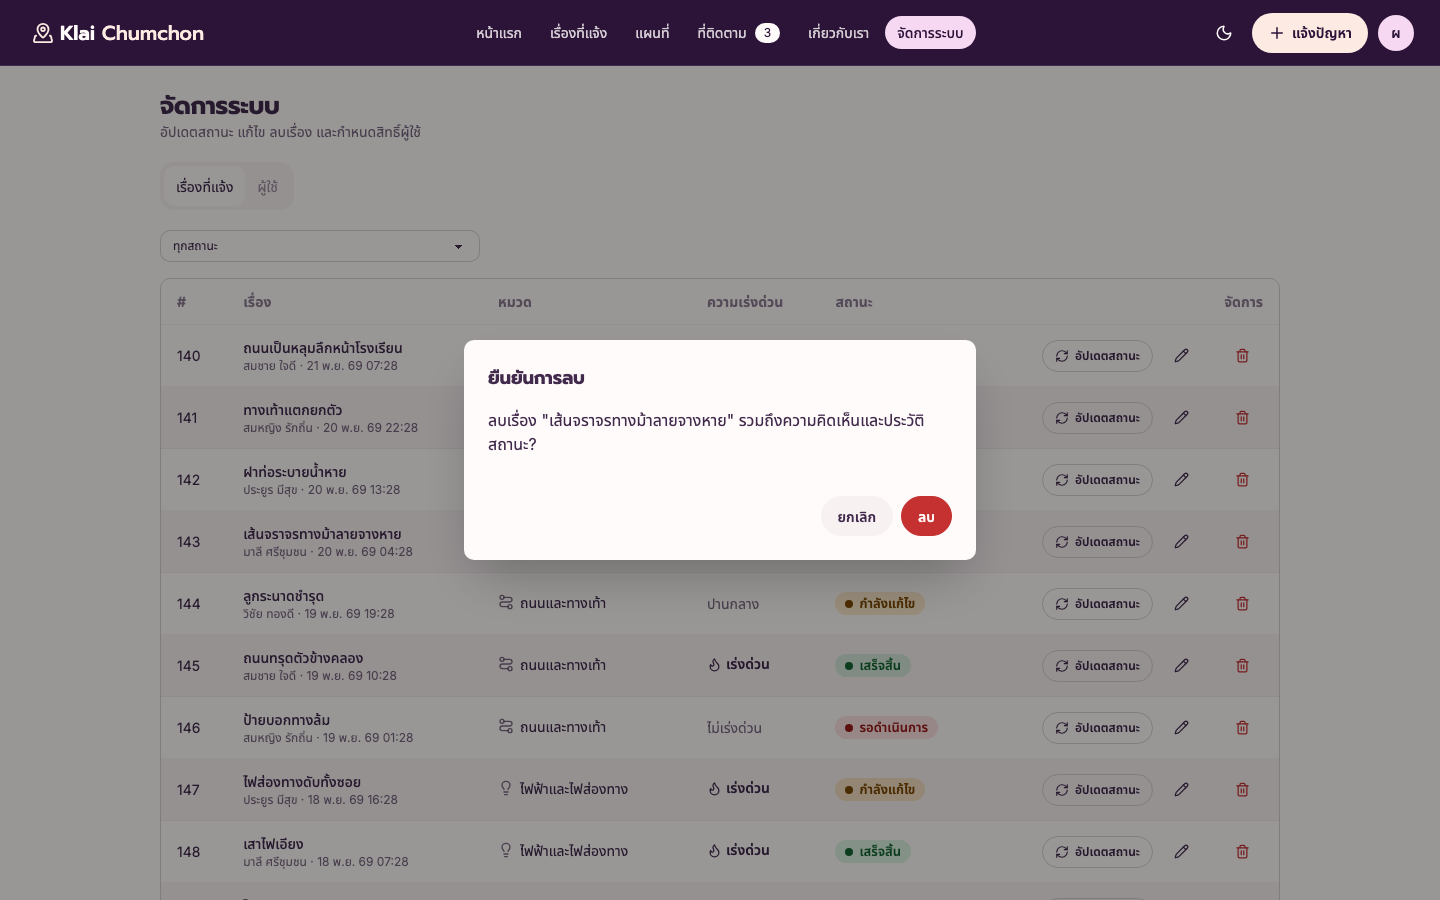
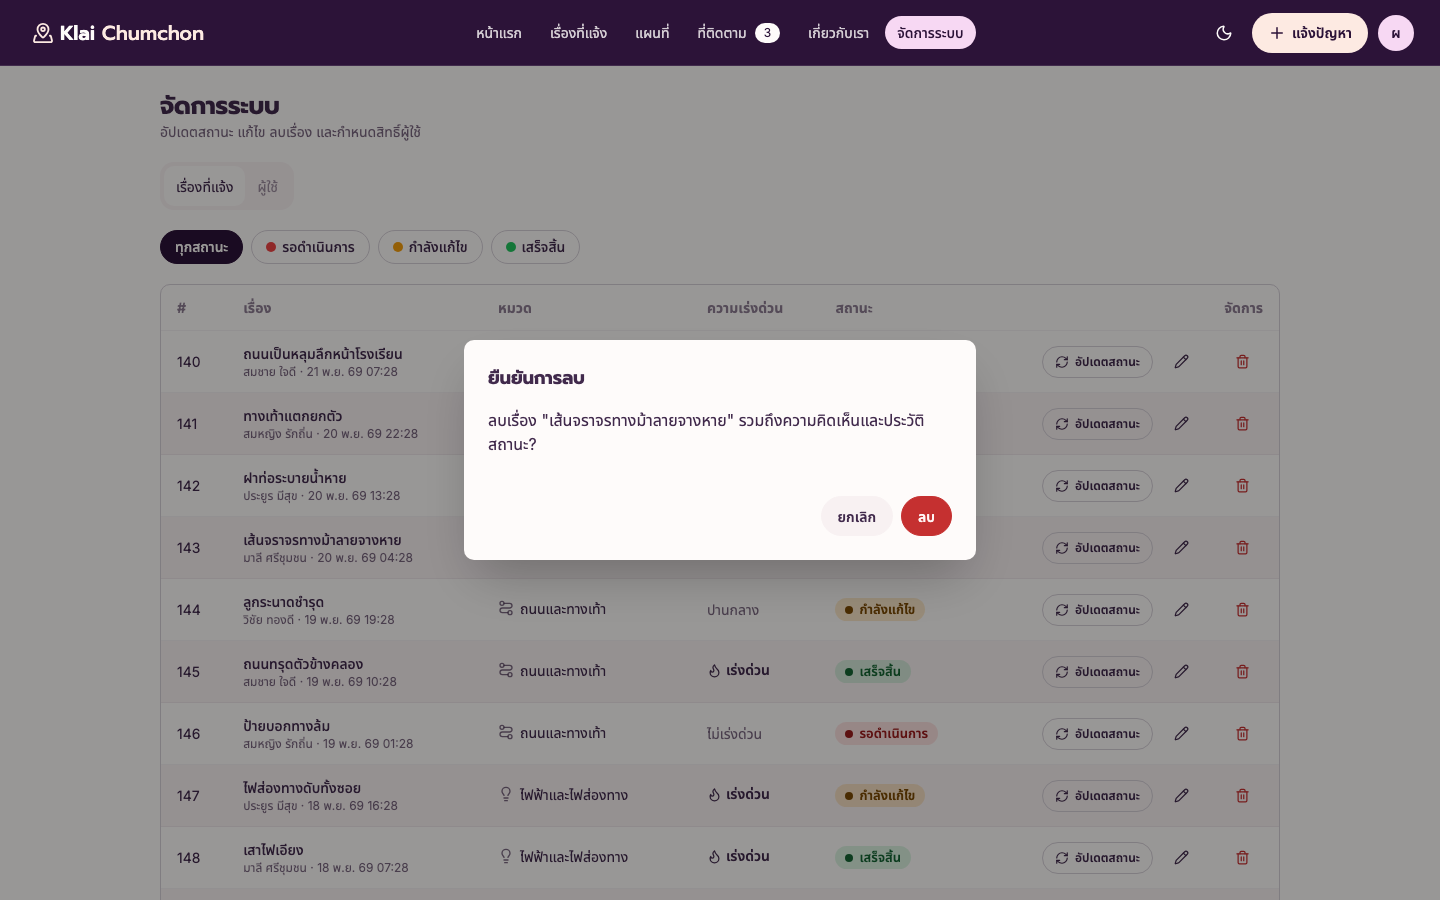
หน้าจัดการระบบ: การ์ดบนมือถือพร้อมปุ่ม 44px และตัวกรองสถานะแบบ pill

diff --git a/client/src/pages/AdminPage.tsx b/client/src/pages/AdminPage.tsx
@@ -9,7 +9,8 @@ import { CategoryLabel } from "../components/CategoryIcon";
 import StatusModal from "../components/StatusModal";
 import { EmptyState, ErrorAlert, TableSkeleton } from "../components/Feedback";
 import ConfirmModal from "../components/ConfirmModal";
-import { ROLE_LABEL, STATUS_LABEL } from "../types";
+import { StatusPills } from "../components/FilterPills";
+import { ROLE_LABEL } from "../types";
 import type { Report, ReportStatus, Role } from "../types";
 import { formatDate } from "../utils";
 
@@ -41,23 +42,55 @@ function ReportsTab({ isAdmin }: { isAdmin: boolean }) {
 
   return (
     <div className="space-y-4">
-      <select
-        className="select select-bordered select-sm"
-        value={statusFilter}
-        onChange={(e) => setStatusFilter(e.target.value as ReportStatus | "")}
-      >
-        <option value="">ทุกสถานะ</option>
-        <option value="PENDING">{STATUS_LABEL.PENDING}</option>
-        <option value="IN_PROGRESS">{STATUS_LABEL.IN_PROGRESS}</option>
-        <option value="RESOLVED">{STATUS_LABEL.RESOLVED}</option>
-      </select>
+      <StatusPills value={statusFilter} onChange={setStatusFilter} />
 
       {reports.isLoading && <TableSkeleton />}
       {reports.isError && <ErrorAlert message={reports.error.message} onRetry={() => reports.refetch()} />}
       {reports.data && reports.data.length === 0 && <EmptyState text="ไม่มีเรื่องในสถานะนี้" />}
 
+      {/* มือถือ: การ์ดเรียงลง ปุ่มใหญ่กดง่าย (เจ้าหน้าที่ภาคสนาม) */}
       {reports.data && reports.data.length > 0 && (
-        <div className="overflow-x-auto bg-base-100 rounded-box border border-base-300">
+        <ul className="sm:hidden space-y-3" aria-label="รายการเรื่องที่แจ้ง">
+          {reports.data.map((r) => (
+            <li key={r.id} className="bg-base-100 border border-base-300 rounded-box p-4 space-y-3">
+              <div className="flex items-start justify-between gap-3">
+                <Link to={`/reports/${r.id}`} className="font-semibold leading-snug hover:underline underline-offset-4">
+                  <span className="text-base-content/60 font-normal tabular">#{r.id}</span> {r.title}
+                </Link>
+                <StatusBadge status={r.status} />
+              </div>
+              <div className="text-sm text-base-content/80 flex flex-wrap items-center gap-x-3 gap-y-1">
+                <CategoryLabel category={r.category} />
+                <PriorityBadge priority={r.priority} />
+              </div>
+              <p className="text-sm text-base-content/70">
+                {r.reporter.name} · {formatDate(r.createdAt)}
+              </p>
+              <div className="flex items-center gap-2">
+                <button className="btn btn-neutral flex-1 h-11 min-h-11" onClick={() => setStatusTarget(r)}>
+                  <RefreshCw size={16} aria-hidden="true" /> อัปเดตสถานะ
+                </button>
+                <Link to={`/reports/${r.id}/edit`} className="btn btn-square btn-ghost border border-base-300 size-11" aria-label={`แก้ไขเรื่อง #${r.id}`}>
+                  <Pencil size={16} aria-hidden="true" />
+                </Link>
+                {isAdmin && (
+                  <button
+                    className="btn btn-square btn-ghost border border-base-300 size-11 text-error ml-2"
+                    onClick={() => setTarget(r)}
+                    aria-label={`ลบเรื่อง #${r.id}`}
+                  >
+                    <Trash2 size={16} aria-hidden="true" />
+                  </button>
+                )}
+              </div>
+            </li>
+          ))}
+        </ul>
+      )}
+
+      {/* จอใหญ่: ตาราง */}
+      {reports.data && reports.data.length > 0 && (
+        <div className="hidden sm:block overflow-x-auto bg-base-100 rounded-box border border-base-300">
           <table className="table table-zebra">
             <thead>
               <tr>
